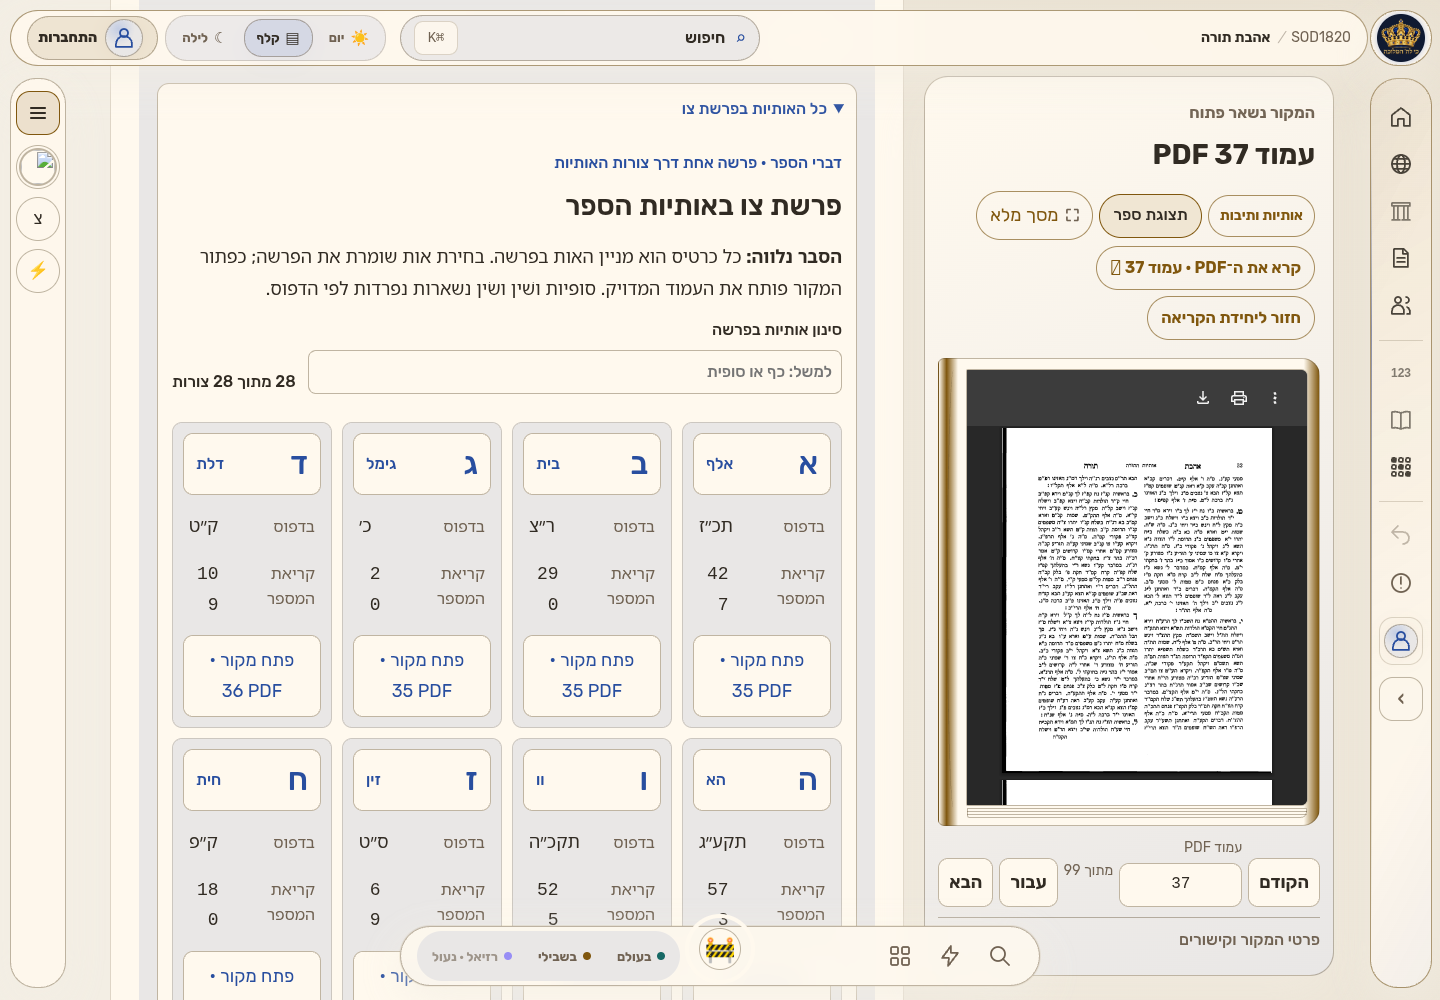
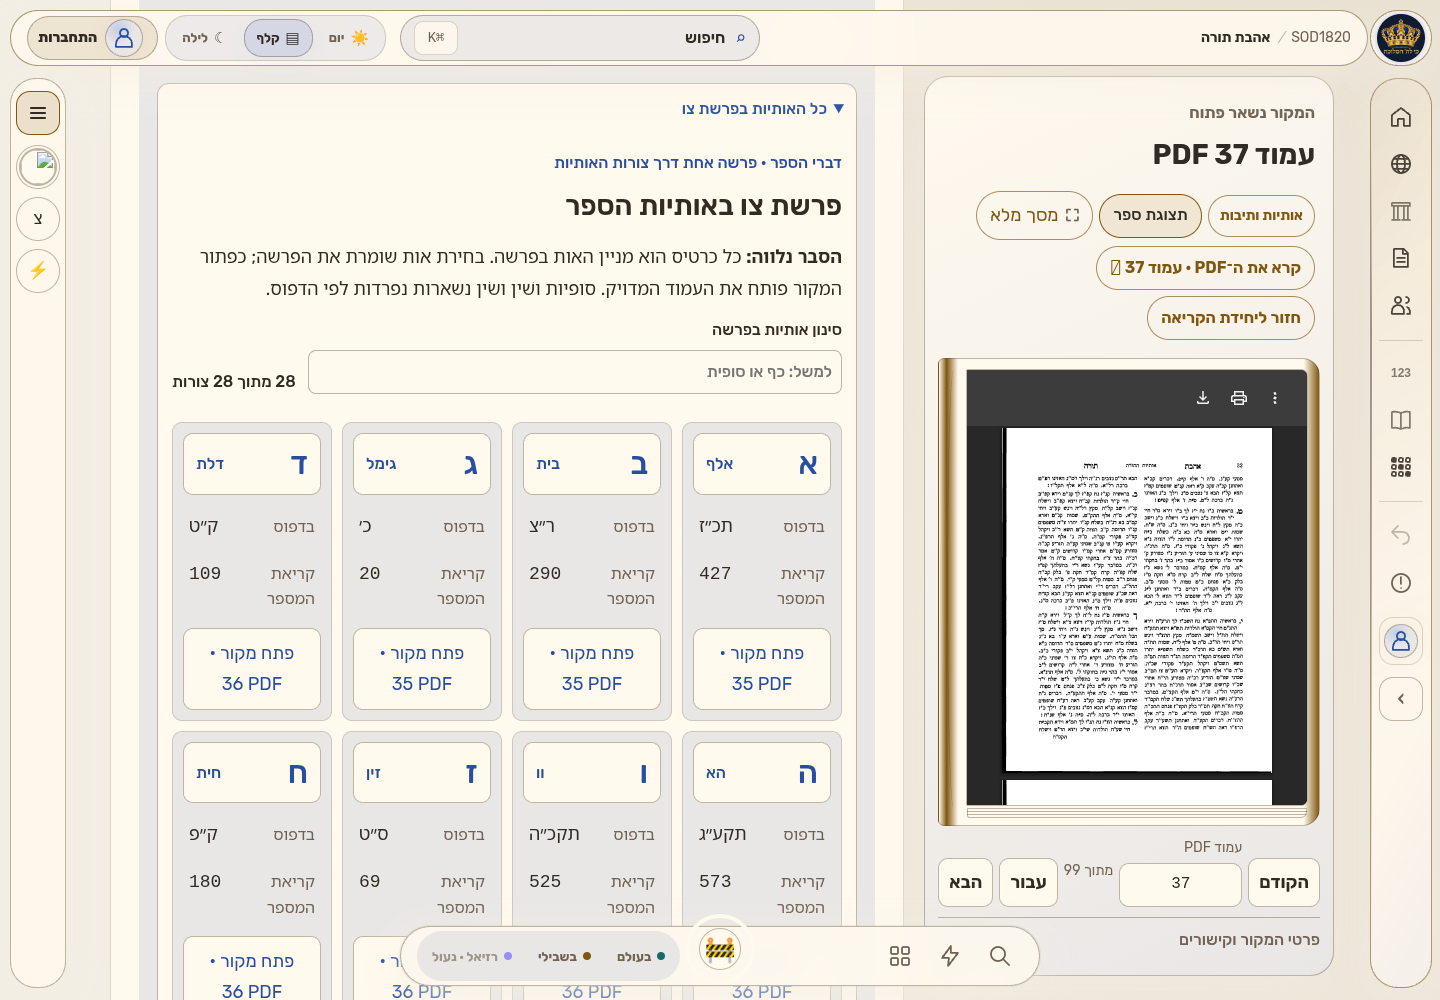
docs(books): finalize readable atlas acceptance with retained QA failures

diff --git a/docs/research-notes/AHAVAT_PARASHA_LETTER_ATLAS_20261029.md b/docs/research-notes/AHAVAT_PARASHA_LETTER_ATLAS_20261029.md
@@ -20,7 +20,7 @@ At receipt HEAD `04e50f1d017b9ceab0fe552a5939cbb7ee7f2d5f`, final screenshot ins
 
 QA-only BEFORE extension: the new runtime's atlas passed all nine contexts. The resumed broad run stopped on the pre-existing count regression's `search.fill()` → missing-row source click, with fixed chrome intercepting competing scrolls. Rechecked live ownership: still no overlapping runtime/test writer. Extend only that dedicated browser file with the same trusted input/uncovered-pointer protocol already used in the atlas; preserve every source/count/GPU assertion and timeout. No count runtime/data edit. The failing log is retained, not counted as accepted.
 
-Implementation frozen at `1cff3152190e8cc889b9bd754ca2419ce606dcd3`. Final per-case local acceptance passed. QA-only HEAD `d7e704b58b2630522c55c948e3f5c77930a09817` changes the existing guided browser harness, not the runtime. No integration, complete-book, canonical engine or visual-adoption claim. The final receipt commit contains documentation/evidence only; its exact SHA and remote/Preview verification are recorded in the external final handoff.
+Final implementation frozen at `d1d6e9861592ba9872ebb957da70a747aca4ce5d`: the earlier runtime `1cff3152190e8cc889b9bd754ca2419ce606dcd3` gained only scoped atlas numeric-cell no-wrap/no-shrink after visual review. All original values and font sizes are unchanged. Final QA-only HEAD `612979647ff16e2b0a092b7e862c0cedd417d481` changes browser geometry/input checks, not runtime/source data. Final per-case local acceptance passed. No integration, complete-book, canonical engine or visual-adoption claim. This final receipt commit contains documentation/evidence only; its exact SHA and remote/Preview verification are recorded in the external final handoff.
 
 ### Delivered capabilities
 
@@ -56,18 +56,24 @@ The GPU-unavailable/empty-filter combination was isolated with scroll/focus trac
 
 An execution-session interruption left eight context messages without a terminal result; that run is **not counted as accepted**. The first durable sequential runner accepted seven cases, then stopped on an initial native-PDF page-36 readiness failure in the existing guided case. That failure is retained and its cause is not established. An unchanged isolated guided run passed its initial PDF step but exposed an unfocused select/camera-scroll race later. The QA-only correction focuses the actual select and uses the same trusted, centered, uncovered pointer actions and exact return-focus wait; it passed all nine contexts. The remaining eleven cases then passed in a separate durable sequential runner. No runtime change followed the frozen runtime above.
 
-Final acceptance is therefore **19 per-case passes in partitions 7 + 1 + 11**, not one clean monolithic run. The runner stops at the first failing/cancelled/skipped case and has no automatic retries. Both status files and the guided final log retain exact runtime/QA lineage and terminal counts. Preliminary/interrupted/failing/diagnostic logs remain separate; none is presented as a passing run.
+The earlier runtime's acceptance was **19 per-case passes in partitions 7 + 1 + 11**, not one clean monolithic run. It is historical, superseded by the final runtime acceptance below. The runners stop at the first failing/cancelled/skipped case and have no automatic retries. Status files retain exact runtime/QA lineage and terminal counts. Preliminary/interrupted/failing/diagnostic logs remain separate; none is presented as a passing run.
+
+Final runtime acceptance is **19 per-case passes in partitions 1 + 11 + 5 + 2**, with identical runtime/source files across those runs. The atlas fixture verifies actual text-range geometry: every numeric/missing-label value stays on one line inside its card. The first geometry measurement mistakenly counted both a null-label span and its text as two identical rectangles; measuring the text contents fixes that diagnostic without relaxing the single-line/in-card assertion.
+
+The count regression's first focused-input correction still caught a field outside the viewport after its initial center (`y=1732`). The QA helper now re-centers across at most eight two-frame layout steps, still requires an uncovered real pointer target and never force-clicks. The dedicated nine-context diagnostic and the final count file passed. No count runtime, source, assertion or timeout changed.
+
+Two unexplained infrastructure/native-viewer flakes remain explicitly open. After eleven accepted cases, the unchanged visual test failed its initial native PDF-35 readiness check; its unmodified nine-context isolated run then passed. At the end of the remaining reader run, the wide test got a local Vite `2029.html` ECONNRESET after all Ahavat and eight of nine Yetzirah combinations; its real-PDF case passed in that same failed file. The unchanged wide file then passed both cases, all eighteen combinations, in isolation. Original failures remain retained. Ample free memory and an uncapped PID cgroup were observed; root causes were not established. Passing isolated/hosted checks do not prove elimination of either flake.
 
 ### Acceptance state
 
-- Full non-browser Books: **417/417**, no skips (`books-delivery-runtime.log`).
+- Full non-browser Books: **417/417**, no skips (`books-numeral.log`, final runtime).
 - Mandatory nine-context atlas case: passed in the durable final runner, including source fields, filtered export, exact return, direct entry/reload, all 28 source actions, no WebGL, missing numeric cell, empty filter, same explicit canvas, native PDF/fullscreen and incomplete-link fallback.
-- Existing browser regression completion: **19/19 final per-case passes**, no final skips/cancellations, across eleven test files; partitions 7 + 1 + 11 as described above. Widths 320/390/1440, all three themes, exact original PDF bytes, source return, full-screen, keyboard, explicit GPU and no-GPU behavior. Local application services were stubbed; this is not hosted or physical-device acceptance.
+- Existing browser regression completion: **19/19 final per-case passes**, no final skips/cancellations, across eleven test files; partitions 1 + 11 + 5 + 2 as described above, not a clean monolithic run. Widths 320/390/1440, all three themes, exact original PDF bytes, source return, full-screen, keyboard, explicit GPU and no-GPU behavior. Local application services were stubbed; this is not hosted or physical-device acceptance.
 - Normal / two-flag / actual integrated Preview builds, graph/weight, Language 3/3, Auth Guard 4/4, Legacy lock, source isolation and cheap hardening: PASS at the frozen runtime. No dependency/lockfile change, budget increase or guard exemption.
-- Eager gzip graph bytes: normal 379,579; two-flag 376,908; integrated 377,225. No budget increase.
+- Eager gzip graph bytes: normal 379,579; two-flag 376,886; integrated 377,255. No budget increase.
 - Protected hosted Preview: local gates permit the next delivery step. Exact final HEAD/deployment/target/null and real remote no-interception browser evidence will be in the external final `handoff.json`; no hosted Preview result is pre-claimed in this immutable receipt.
 
-[Machine-readable acceptance](./ahavat-parasha-atlas-20261029/acceptance.json) lists all thirteen changed files, the accepted cases, exports, source-review candidate and retained failures. [Mobile screenshot](./ahavat-parasha-atlas-20261029/atlas-390-parchment.png) and [desktop screenshot](./ahavat-parasha-atlas-20261029/atlas-1440-parchment.png) show the accepted frozen runtime.
+[Machine-readable acceptance](./ahavat-parasha-atlas-20261029/acceptance.json) lists all fourteen changed files, the accepted cases, exports, source-review candidate and retained failures. [Mobile screenshot](./ahavat-parasha-atlas-20261029/atlas-390-parchment.png) and [desktop screenshot](./ahavat-parasha-atlas-20261029/atlas-1440-parchment.png) show the final accepted frozen runtime, including whole numerals.
 
 ### Handoff boundaries and remaining work
 
